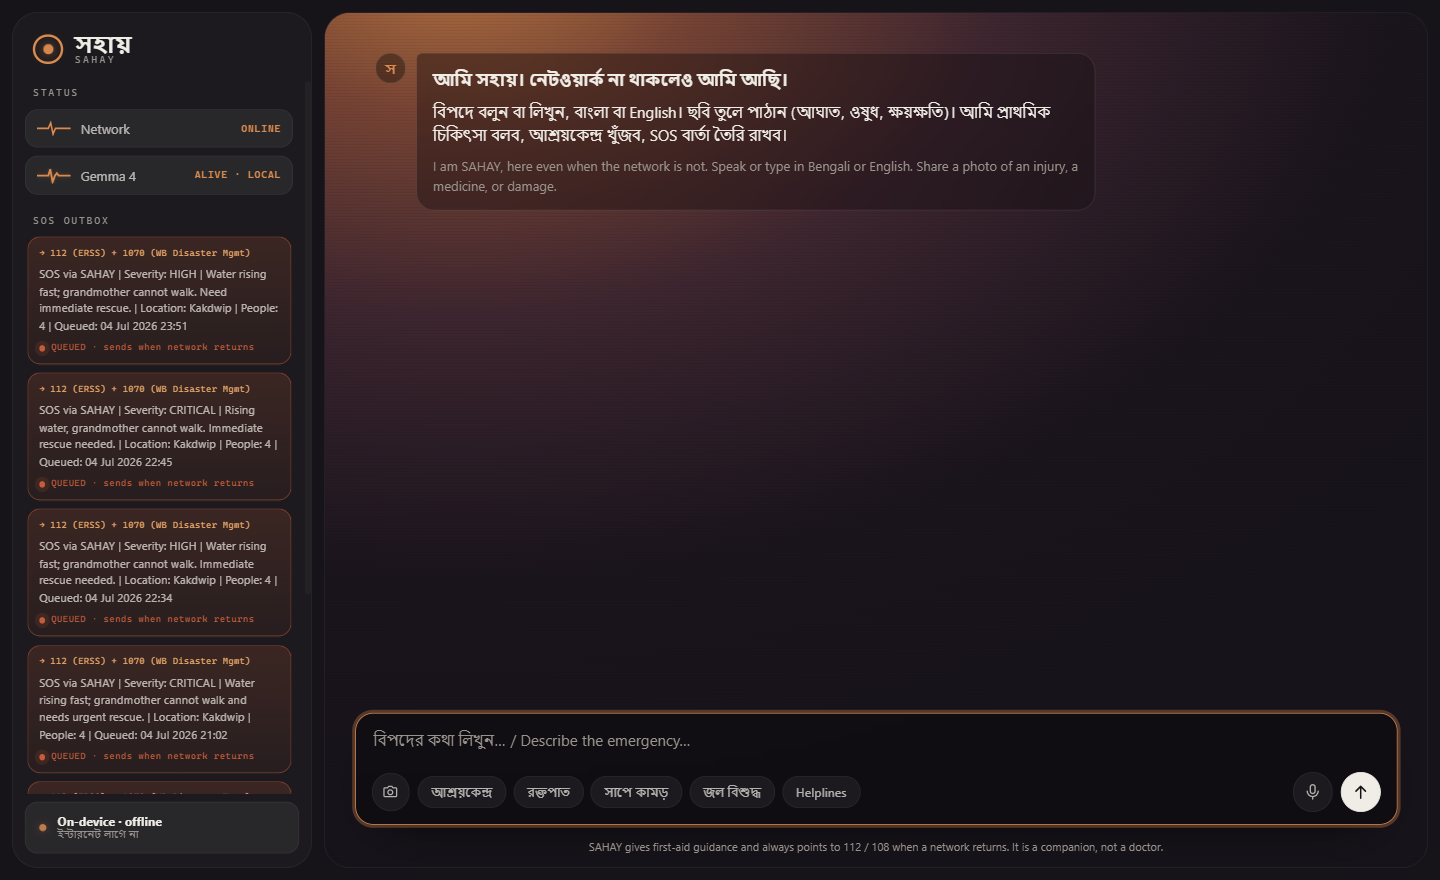
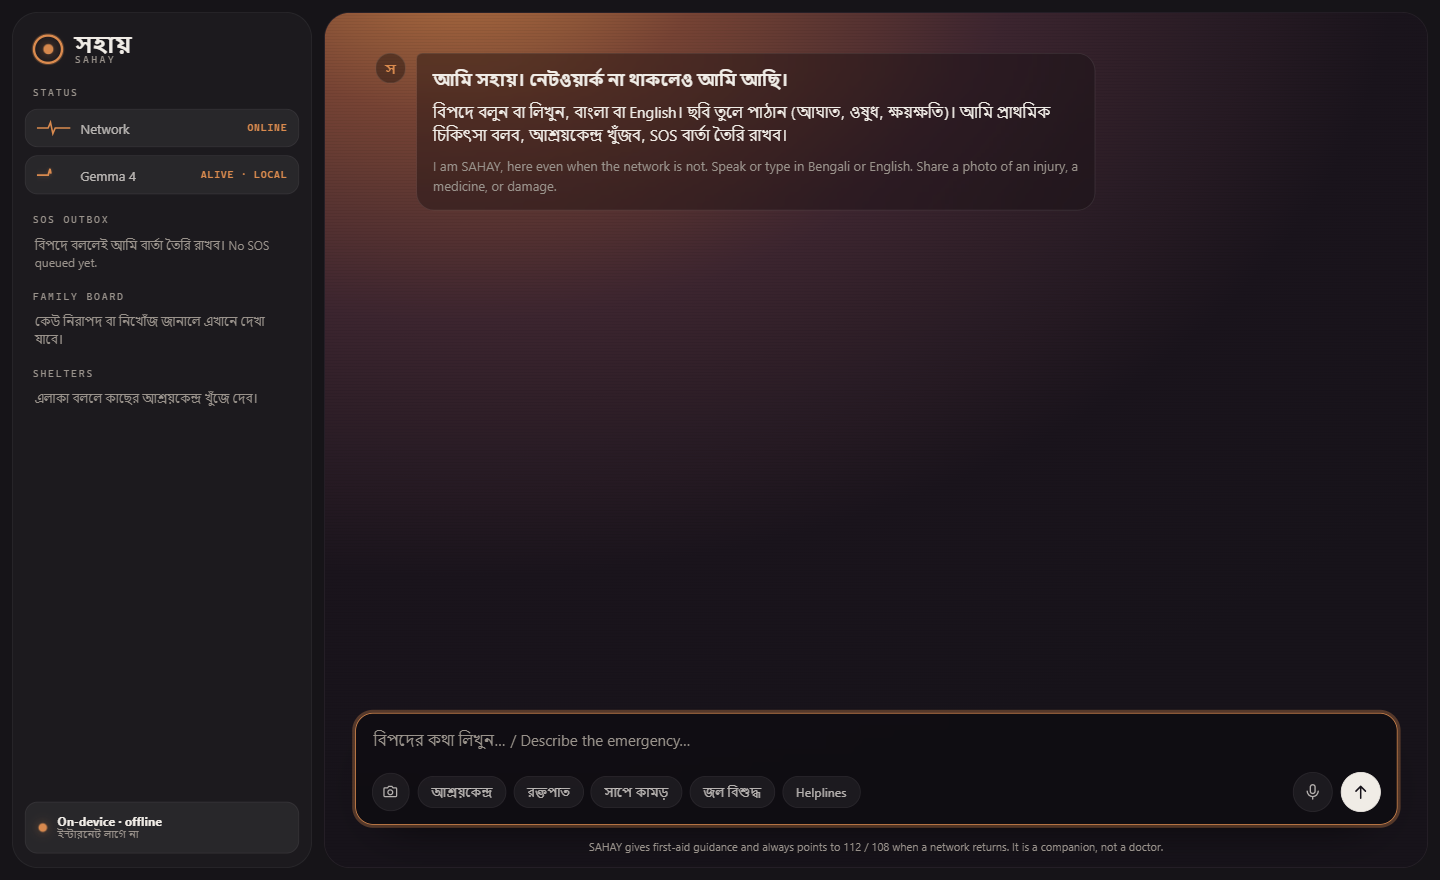
a

diff --git a/app/server.py b/app/server.py
@@ -34,13 +34,17 @@ WEB_DIR = ROOT / "web"
 MAX_TOOL_ROUNDS = 4
 
 
-def ollama_chat(model: str, messages: list[dict], use_tools: bool = True) -> dict:
+def ollama_chat(model: str, messages: list[dict], use_tools: bool = True,
+                num_predict: int | None = None) -> dict:
     """Raw REST call to Ollama, full control over message fields."""
+    options = {"temperature": 0.3}
+    if num_predict:
+        options["num_predict"] = num_predict
     payload = {
         "model": model,
         "messages": messages,
         "stream": False,
-        "options": {"temperature": 0.3},
+        "options": options,
         "keep_alive": -1,
     }
     if use_tools:
@@ -52,6 +56,30 @@ def ollama_chat(model: str, messages: list[dict], use_tools: bool = True) -> dic
     )
     with urllib.request.urlopen(req, timeout=600) as r:
         return json.loads(r.read())
+
+
+def _downscale_image_b64(b64: str, max_dim: int = 768) -> str:
+    """Shrink a data image so the vision model isn't fed a multi-megapixel photo.
+
+    A phone photo can be 4000px wide; on a 6 GB GPU the 12B vision model then
+    spills to CPU and takes minutes. Capping the long edge keeps the demo fast
+    while staying more than legible for reading a label or a wound. Best-effort:
+    if Pillow is missing or decoding fails, the original image is used.
+    """
+    try:
+        from PIL import Image  # type: ignore
+        import io
+        raw = base64.b64decode(b64)
+        img = Image.open(io.BytesIO(raw))
+        img = img.convert("RGB")
+        if max(img.size) > max_dim:
+            scale = max_dim / max(img.size)
+            img = img.resize((round(img.width * scale), round(img.height * scale)))
+        out = io.BytesIO()
+        img.save(out, format="JPEG", quality=85)
+        return base64.b64encode(out.getvalue()).decode()
+    except Exception:
+        return b64
 
 SYSTEM_PROMPT = """\
 You are SAHAY (সহায়), a calm, reliable disaster-response companion for people in \
@@ -181,10 +209,11 @@ def chat(req: ChatRequest):
 
     user_msg: dict = {"role": "user", "content": user_text or "(see attached image)"}
     if req.image_b64:
-        user_msg["images"] = [req.image_b64]
+        user_msg["images"] = [_downscale_image_b64(req.image_b64)]
     messages.append(user_msg)
 
     # --- native function-calling loop -------------------------------------
+    # Vision runs on the larger 12B model (E4B image input is broken upstream).
     model = VISION_MODEL if req.image_b64 else MODEL
     reply = ""
     for _round in range(MAX_TOOL_ROUNDS):

diff --git a/README.md b/README.md
@@ -115,3 +115,7 @@ Functionality, Presentation):
 - SAHAY gives standard first-aid guidance (IFRC/WHO-style) and always directs users
   to professional care (112/108) the moment networks return. It is a companion, not
   a doctor.
+
+## License
+
+MIT, see [LICENSE](LICENSE).